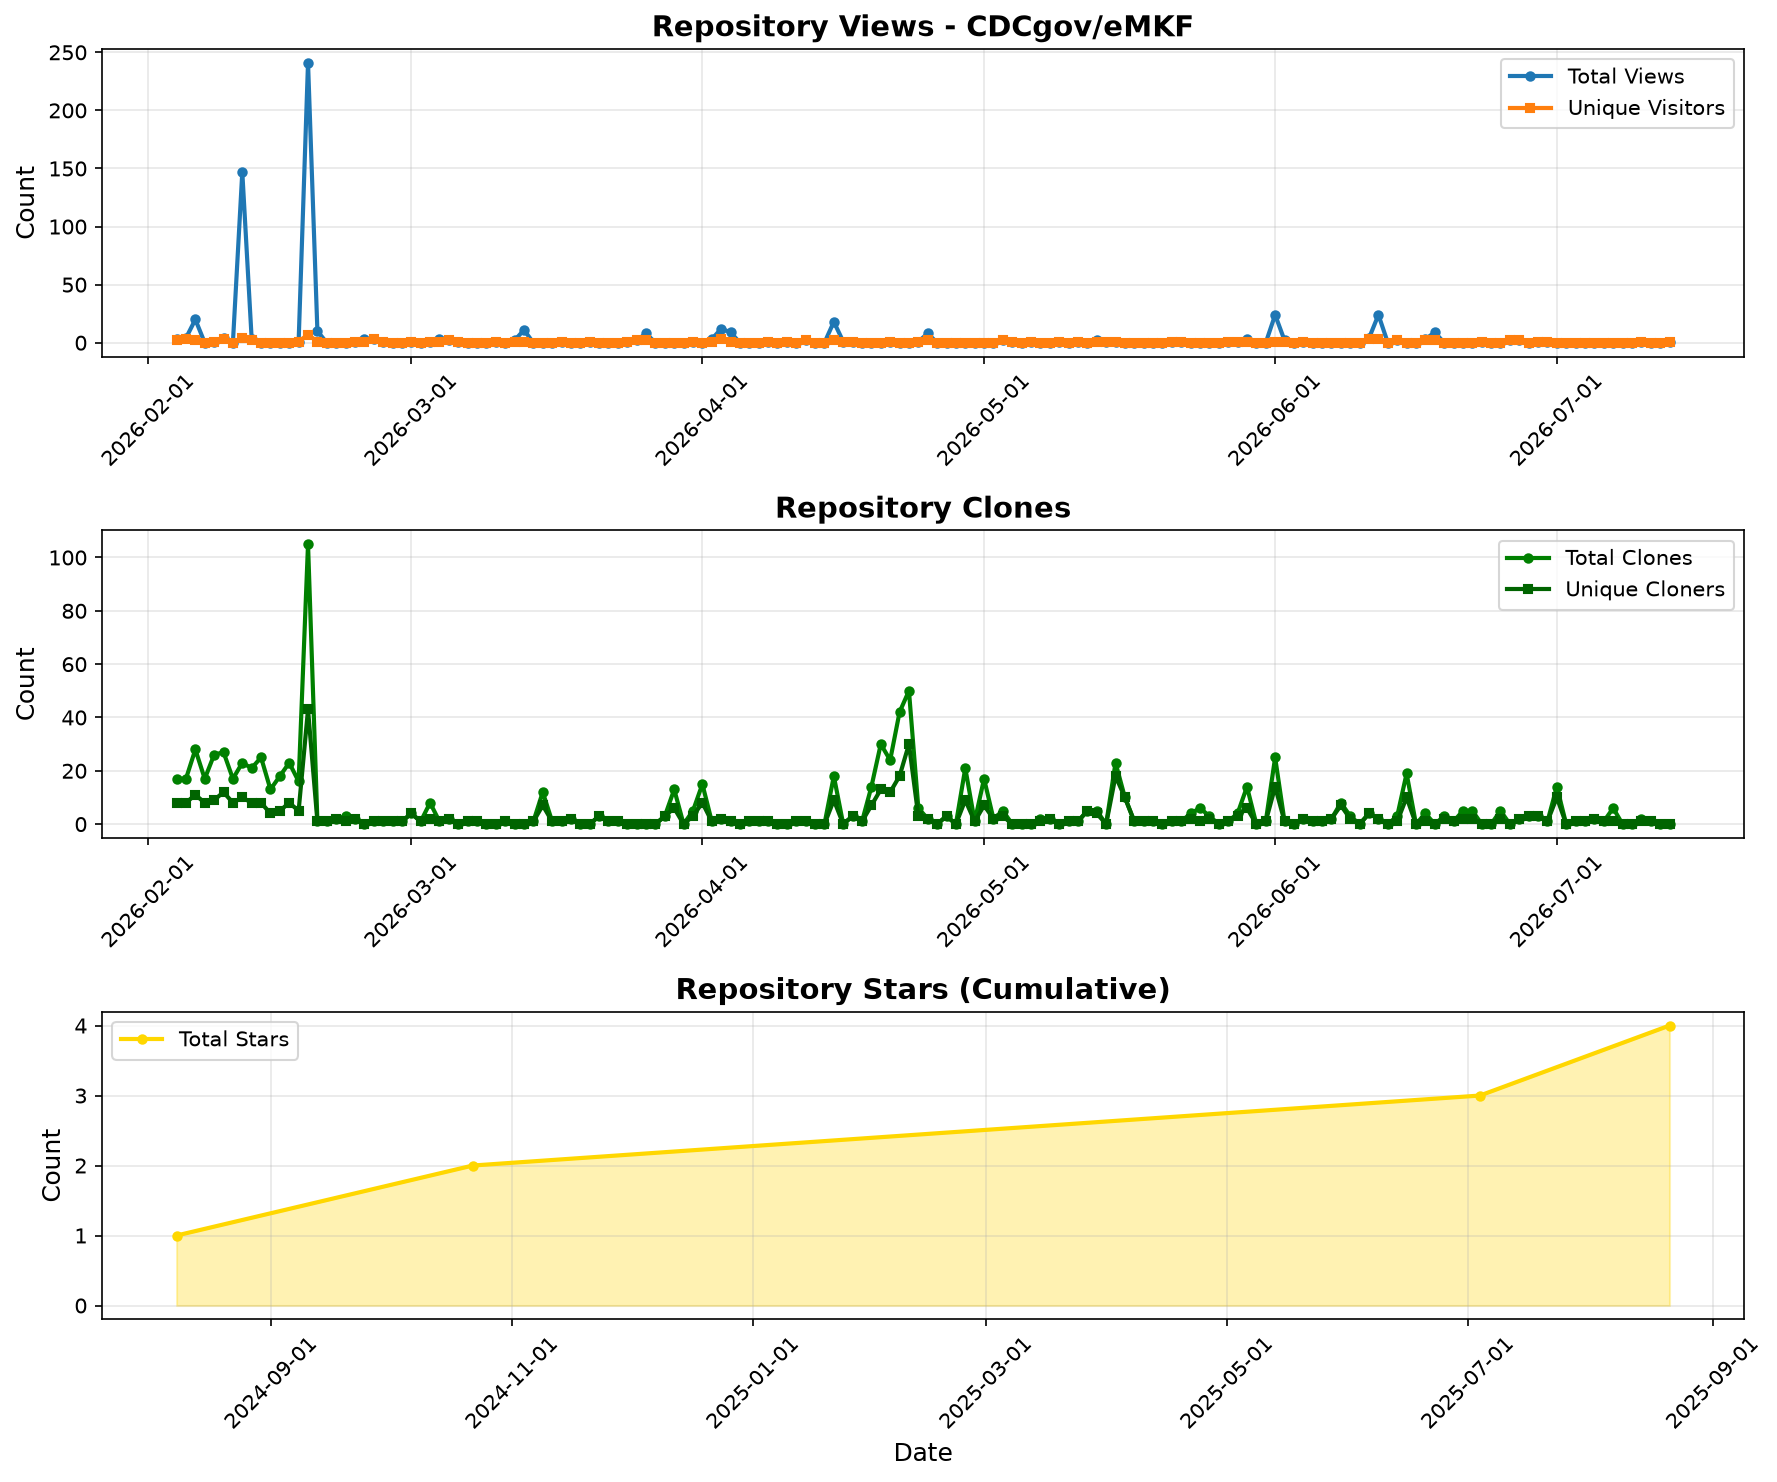
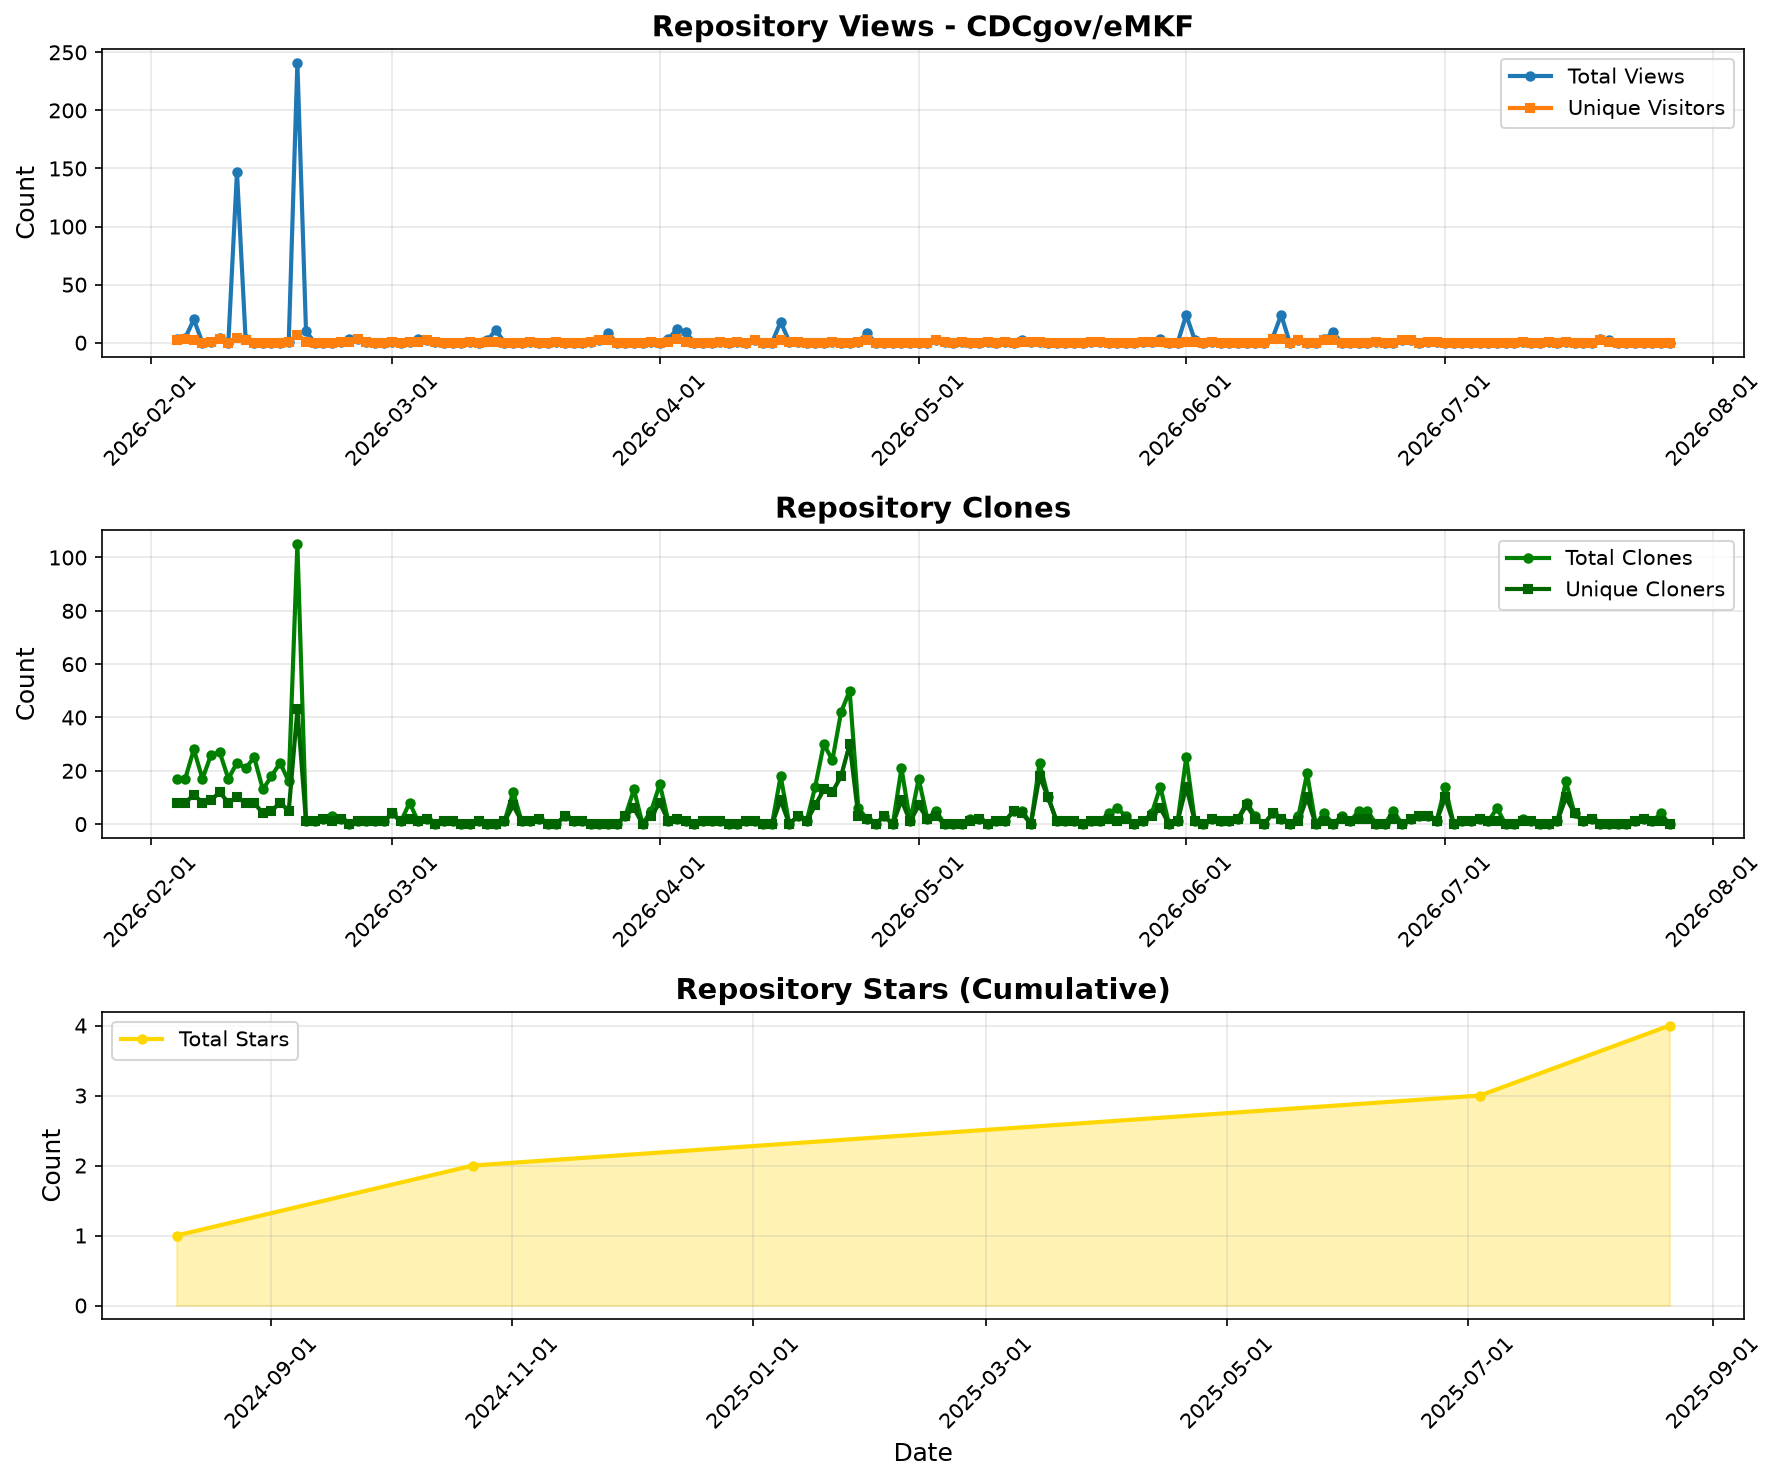
Update traffic stats [skip ci]

diff --git a/.traffic/README.md b/.traffic/README.md
@@ -1,6 +1,6 @@
 # Repository Traffic Statistics
 
-> Last updated: **July 15, 2026 at 01:59 UTC**
+> Last updated: **July 29, 2026 at 01:26 UTC**
 
 ## 📊 Traffic Overview
 
@@ -11,15 +11,15 @@
 ### Latest 14 Days
 | Metric | Total | Unique |
 |--------|-------|--------|
-| 👁 **Views** | 3 | 3 |
-| 📦 **Clones** | 29 | 19 |
+| 👁 **Views** | 6 | 4 |
+| 📦 **Clones** | 32 | 23 |
 | ⭐ **Stars** | 4 | - |
 
 ### All Time (Since Tracking Started)
 | Metric | Total | Unique | Data Points |
 |--------|-------|--------|-------------|
-| 👁 **Views** | 631 | 104 | 160 days |
-| 📦 **Clones** | 949 | 495 | 160 days |
+| 👁 **Views** | 637 | 108 | 174 days |
+| 📦 **Clones** | 981 | 518 | 174 days |
 | ⭐ **Stars** | 4 | - | 4 days |
 
 ## 📁 Available Files
